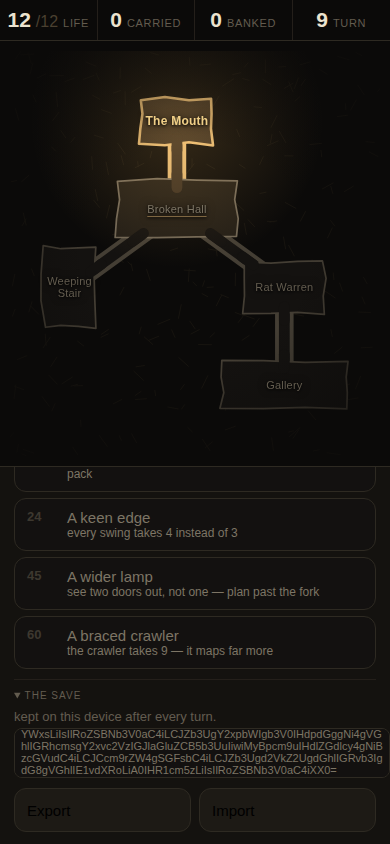
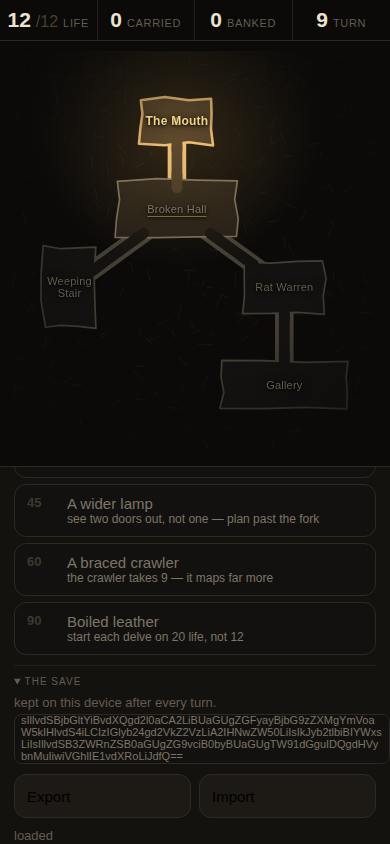
THE MAP IS TRUE: the game gets a ladder, and an end
⚠ THE BOTTOM OF THE DUNGEON WAS UNREACHABLE, and nothing had noticed for four
slices. The Hoard's guard is 48 hit points dealing ~4.5 a turn; on twelve life,
with every upgrade bought, standing and trading kills you in THREE of the
twelve swings you need. There was no route, no purchase and no play that got a
delver into the last room and out — the deepest chamber, the one the whole map
points at, could not be entered. A dungeon crawler whose deepest room is
impossible is not a finished game, and no test could see it because none of
them ever tried to go there.

★★★ SO THE ENDING IS "STOOD IN EVERY ROOM", NOT "KILLED EVERYTHING". The whole
game is a machine's map against a walked one, and finishing it is the moment
the walked one is complete: nothing left on your map that you took somebody
else's word for. That also turns the deep end into a DASH — get in, take the
hit, get out — which is a thing the kit can gate, instead of a wall nothing can
pass. `trod` is the one list in this game that is entirely, boringly true.

★ AND IT ONLY COUNTS IF YOU CAME BACK. Recording the room on ARRIVAL quietly
deleted the whole ladder: a bare delver could walk to the bottom, be killed by
the thing in it, and have finished the game. A map is only true if the surveyor
returned to draw it, so `trod` is written at the end of a turn you SURVIVED.

BOILED LEATHER (90) — start each delve on 20 life instead of 12. The second
[…]

Changed region(s): [[0.0308, 0.5545, 0.9846, 0.9242], [0.0308, 0.955, 0.1846, 1.0], [0.5538, 0.955, 0.6462, 0.9858]]

diff --git a/test/ladder.test.ts b/test/ladder.test.ts
@@ -1,0 +1,123 @@
+// ★★★ THE LADDER — is the game finishable, and is the kit what finishes it?
+//
+// ⚠ THE BOTTOM OF THE DUNGEON WAS UNREACHABLE, and nothing noticed for four
+// slices. The Hoard's guard is 48 hit points that deal ~4.5 a turn; on twelve
+// life, with every upgrade bought, standing and trading kills you in THREE
+// swings of the twelve you need. There was no route, no purchase and no play
+// that got a delver to the last room — the deepest chamber in the game, the
+// one the whole map points at, could not be entered and survived.
+//
+// ★ SO THE ENDING IS "STOOD IN EVERY ROOM", NOT "KILLED EVERYTHING". The game
+// is a machine's map against a walked one; finishing it is completing the
+// walked one. That makes the deep end a DASH — get in, take the hit, get out —
+// which is a thing the kit can gate, rather than a wall nothing can pass.
+//
+// Everything below plays real actions through `apply`. No hand-built states
+// where the claim is about whether a route works.
+import { describe, it, expect } from 'vitest';
+import { apply, initial, done, maxHp, facing, unwalkable, COST, VIM, START_HP,
+  type Delve, type Good } from '../src/delve/engine';
+import { ROOMS } from '../src/delve/dungeon';
+
+const go = (g: Delve, to: number): Delve => apply(g, { type: 'walk', to });
+const wedge = (g: Delve, to: number): Delve => apply(g, { type: 'wedge', to });
+
+/** Kitted out, standing at the Mouth, at the top of a delve. */
+const kitted = (...bought: Good[]): Delve => {
+  let g: Delve = { ...initial(), hoard: 9999 };
+  for (const w of bought) g = apply(g, { type: 'buy', what: w });
+  return { ...g, hp: maxHp(g) };
+};
+
+/** ★ THE ROUTE TO THE BOTTOM: 0-1-3-5-6-8-9, wedging the door shut behind you
+ *  at each lair so the pack you just woke cannot follow you down. This is the
+ *  intended use of a wedge and the reason it is the first thing on sale. */
+const dash = (g0: Delve, useWedges: boolean): Delve => {
+  let g = g0;
+  const legs: [number, number][] = [[0, 1], [1, 3], [3, 5], [5, 6], [6, 8], [8, 9]];
+  for (const [from, to] of legs) {
+    if (g.fallen) return g;
+    if (unwalkable(g, to) !== null) return g;
+    g = go(g, to);
+    // Cut the way you came, so what you woke has to go the long way round.
+    if (useWedges && g.kit.wedges > 0 && !g.fallen) g = wedge(g, from);
+  }
+  return g;
+};
+
+describe('★★★ THE BOTTOM OF THE DUNGEON CAN BE REACHED', () => {
+  it('★★★ but NOT bare-handed — you reach the door and it kills you there', () => {
+    const bare = dash(initial(), false);
+    expect(bare.fallen).toBe(true);
+    // ⚠ AND IT DOES NOT COUNT. Dying on the doorstep used to record the room,
+    // which quietly deleted this whole ladder: a bare delver could walk to the
+    // bottom, be killed by the thing in it, and have finished the game. A map
+    // is only true if the surveyor came back to draw it.
+    expect(bare.trod).not.toContain(9);
+    expect(done(bare)).toBe(false);
+  });
+
+  it('★★★ and not by standing and trading, however much you have bought', () => {
+    // ⚠ THE ARITHMETIC THAT FORCED THE ENDING TO BE ABOUT WALKING. 48 hit
+    // points of guard against a delver who loses ~4.5 a turn: there is no
+    // amount of `edge` that closes that, and pretending otherwise would have
+    // shipped a last room nobody could ever open.
+    let g = dash(kitted('wedges', 'edge', 'vim'), true);
+    if (g.at !== 9) return;                       // covered by the test below
+    let n = 0;
+    while (!g.fallen && facing(g).length > 0 && n < 40) { g = apply(g, { type: 'strike' }); n++; }
+    expect(g.fallen).toBe(true);
+  });
+
+  it('★★★ WITH THE KIT, THE DASH GETS THERE — and that is the whole ladder', () => {
+    const g = dash(kitted('wedges', 'edge', 'vim'), true);
+    expect(g.fallen).toBe(false);
+    expect(g.at).toBe(9);
+    expect(g.trod).toContain(9);
+  });
+
+  it('★★★ the leather is what makes the difference, not the route', () => {
+    // ⚠ THE CHECK THAT STOPS THIS BEING A STORY. Same route, same wedges, same
+    // edge — one purchase removed. If it still worked, the ladder would be
+    // decoration and the shop would not be gating anything.
+    const without = dash(kitted('wedges', 'edge'), true);
+    expect(maxHp(kitted('vim'))).toBe(START_HP + VIM);
+    expect(without.fallen || without.at !== 9).toBe(true);
+  });
+});
+
+describe('★★★ AND THE GAME CAN BE FINISHED', () => {
+  it('★ a fresh delver has not finished it', () => {
+    expect(done(initial())).toBe(false);
+    expect(initial().trod).toEqual([0]);
+  });
+
+  it('★★★ finishing is having STOOD in every room — walked, not cleared', () => {
+    // The one list in the game that is entirely, boringly true.
+    const walked: Delve = { ...initial(), trod: ROOMS.map((r) => r.id) };
+    expect(done(walked)).toBe(true);
+    // ⚠ AND NOT "cleared". You never have to beat the Hoard; you have to have
+    // been there. Clearing everything while never entering the last room is
+    // explicitly NOT finishing.
+    const slaughter: Delve = { ...initial(), cleared: ROOMS.map((r) => r.id),
+      trod: ROOMS.filter((r) => r.id !== 9).map((r) => r.id) };
+    expect(done(slaughter)).toBe(false);
+  });
+
+  it('★★★ and what you walked survives dying, or it could never be finished', () => {
+    // Every route to the bottom costs more life than a delver has; the ending
+    // is reachable ONLY because progress accumulates across runs.
+    const deep = dash(kitted('wedges', 'edge', 'vim'), true);
+    const down = apply({ ...deep, hp: 1 }, { type: 'wait' });
+    expect(down.fallen).toBe(true);
+    const next = apply(down, { type: 'leave' });
+    expect(next.trod).toContain(9);
+    expect(next.hp).toBe(maxHp(next));
+  });
+
+  it('★ and a run always starts on full life, with whatever you are wearing', () => {
+    const tough = kitted('vim');
+    expect(apply({ ...tough, at: 0, hp: 3 }, { type: 'leave' }).hp).toBe(START_HP + VIM);
+    expect(COST.vim).toBeGreaterThan(COST.brace);   // the last thing you buy
+  });
+});

diff --git a/src/delve/engine.ts b/src/delve/engine.ts
@@ -20,7 +20,7 @@
 // the graph against it. That is the Grimrock dance, made countable.
 import { ROOM, ROOMS, GUARDS, SPOIL } from './dungeon';
 
-export const DELVE_VERSION = 5;
+export const DELVE_VERSION = 6;
 
 /** A thing in the dungeon with you. It has a room, and it is coming. */
 export interface Foe {
@@ -63,11 +63,20 @@ export interface Delve {
   bars: Bar[];
   /** What the hoard has bought. Survives dying; that is the whole ratchet. */
   kit: Kit;
+  /** ★★★ EVERY ROOM YOU HAVE PERSONALLY STOOD IN. Not `seen` — seen is what
+   *  the lamp showed you from the doorway, and not `crawl.walked`, which is a
+   *  machine's word. This is the one list in the game that is entirely, boringly
+   *  true, and finishing the game means completing it. Survives dying. */
+  trod: number[];
   fallen: boolean;
   log: string[];
 }
 
 export const START_HP = 12;
+/** ★ HOW MUCH LIFE THE BOILED LEATHER IS WORTH. Tuned by playing the deep end
+ *  out in `test/ladder.test.ts`, not by feel: on 12 the bottom of the dungeon
+ *  is not reachable by ANY route, which made the game unfinishable. */
+export const VIM = 8;
 export const LOG_KEEP = 40;
 /** What one swing takes off. */
 export const BITE = 3;
@@ -89,7 +98,8 @@ export const initial = (): Delve => ({
   bred: 1,
   crawl: null,
   bars: [],
-  kit: { wedges: 0, lamp: 1, brace: 0, edge: 0 },
+  kit: { wedges: 0, lamp: 1, brace: 0, edge: 0, vim: 0 },
+  trod: [0],
   fallen: false,
   log: [],
 });
@@ -304,7 +314,14 @@ function theirTurn(g: Delve, said: string[], from: number): Delve {
       log: LOG_LINES(said.reduce(LOG_LINES, g.log),
         'You go down in the dark. What you carried stays there.') };
   }
-  return { ...g, turn, foes, cleared, purse, crawl, bred, bars, hp, at,
+  // ★★★ AND YOU HAVE STOOD HERE — recorded only on a turn you SURVIVED.
+  //
+  // ⚠ NOT WHEN YOU ARRIVE. Dying on the doorstep used to count, and that quietly
+  // deleted the difficulty ladder: a bare delver could walk to the bottom of the
+  // dungeon, be killed by the thing in it, and still have finished the game.
+  // A map is only true if the surveyor came back to draw it.
+  const trod = g.trod.includes(at) ? g.trod : [...g.trod, at];
+  return { ...g, turn, foes, cleared, purse, crawl, bred, bars, hp, at, trod,
     log: said.reduce(LOG_LINES, g.log) };
 }
 
@@ -569,9 +586,12 @@ export interface Kit {
   brace: number;
   /** 1 once the edge is keen. */
   edge: number;
+  /** ★ 1 once you are carrying more life. The second honest +1, and the one
+   *  that gates the deep end — see THE LADDER in `test/ladder.test.ts`. */
+  vim: number;
 }
 
-export type Good = 'wedges' | 'lamp' | 'brace' | 'edge';
+export type Good = 'wedges' | 'lamp' | 'brace' | 'edge' | 'vim';
 
 /** ★ How long a wedge holds. Four turns is two exchanges with a fast thing and
  *  four doors of running — long enough to be worth spending, short enough that
@@ -592,7 +612,7 @@ export const KEEN = 1;
  *  that is the loop taught in one delve instead of three. The lot comes to
  *  135, a bit under two total clears, which is a ratchet you can feel. */
 export const COST: Record<Good, number> = {
-  wedges: SPOIL.lair, edge: 24, lamp: 45, brace: 60,
+  wedges: SPOIL.lair, edge: 24, lamp: 45, brace: 60, vim: 90,
 };
 
 export const GOODS: Record<Good, string> = {
@@ -600,6 +620,7 @@ export const GOODS: Record<Good, string> = {
   edge: 'A keen edge',
   lamp: 'A wider lamp',
   brace: 'A braced crawler',
+  vim: 'Boiled leather',
 };
 
 export const SAYS: Record<Good, string> = {
@@ -607,7 +628,22 @@ export const SAYS: Record<Good, string> = {
   edge: `every swing takes ${BITE + KEEN} instead of ${BITE}`,
   lamp: 'see two doors out, not one — plan past the fork',
   brace: `the crawler takes ${CRAWL_HP + BRACE_HP} — it maps far more`,
+  vim: `start each delve on ${START_HP + VIM} life, not ${START_HP}`,
 };
+
+/** Life at the top of a delve, with what you are wearing. */
+export const maxHp = (g: Delve): number => START_HP + g.kit.vim * VIM;
+
+/** ★★★ HAVE YOU FINISHED? Every room in the dungeon, stood in, by YOU.
+ *
+ *  ⚠ NOT "every room cleared". You do not have to beat the Hoard — you have
+ *  to have BEEN there. The whole game is a machine's map against a walked one,
+ *  so the ending is the moment the walked one is complete: nothing left on your
+ *  map that you took somebody else's word for. It also means the deep end is a
+ *  dash rather than a wall — get in, take the hit, get out — which is a fight
+ *  the kit can actually gate rather than a fight nothing can win. */
+export const done = (g: Delve): boolean =>
+  ROOMS.every((r) => g.trod.includes(r.id));
 
 /** What one swing takes off, with what you are carrying. */
 export const swing = (g: Delve): number => BITE + g.kit.edge * KEEN;
@@ -663,6 +699,8 @@ export const descend = (g: Delve): Delve => ({
   hoard: g.hoard,
   kit: g.kit,
   crawl: g.crawl,
+  hp: START_HP + g.kit.vim * VIM,
+  trod: g.trod,
   // ★ THE MAP IS KNOWLEDGE, and knowledge does not fall down a hole with you.
   seen: g.seen,
   log: g.log,

diff --git a/src/ui/Delve.svelte b/src/ui/Delve.svelte
@@ -23,8 +23,8 @@
   import { ROOM, ROOMS } from '../delve/dungeon';
   import { apply, initial, doorsOf, unwalkable, unswingable, canLeave,
     facing, foesIn, actsOn, claimed, hallucinated, canSend, shut, waysOut,
-    unwedgeable, affordable, swing, COST, GOODS, SAYS, BAR_TURNS,
-    START_HP, CRAWL_HP, type Delve, type Good } from '../delve/engine';
+    unwedgeable, affordable, swing, COST, GOODS, SAYS, BAR_TURNS, done, maxHp,
+    CRAWL_HP, type Delve, type Good } from '../delve/engine';
 
   let game = $state<Delve>(initial());
   /** ⚠ NOTHING IS WRITTEN UNTIL THE LOAD HAS FINISHED. The first draft saved
@@ -138,7 +138,7 @@
   const invented = $derived(hallucinated(game));
   /** ★ THE FOUR THINGS THE HOARD BUYS. Order is price order, so the next thing
    *  you can afford is always the next thing down the list. */
-  const stock: Good[] = ['wedges', 'edge', 'lamp', 'brace'];
+  const stock: Good[] = ['wedges', 'edge', 'lamp', 'brace', 'vim'];
   /** Doors out of here you could still spend a wedge on. */
   const wedgeable = $derived(doorsOf(game.at).filter((d) => unwedgeable(game, d) === null));
   /** ★★★ THE MOMENT YOU LEARN TO DISTRUST IT. Kept OUT of the engine on
@@ -155,7 +155,7 @@
    *  is not getting one; drop every frame and the game plays identically. */
   let shock = $state(0);
   let float = $state<{ room: number; text: string; key: number } | null>(null);
-  let wasHp = START_HP;
+  let wasHp = 99;
   let wasPurse = 0;
   let key = 0;
   $effect(() => {
@@ -191,7 +191,7 @@
   <header>
     <div class="bar">
       <span class="cell">
-        {#key shock}<b class="kick">{game.hp}</b>{/key}/{START_HP} <em>life</em>
+        {#key shock}<b class="kick">{game.hp}</b>{/key}/{maxHp(game)} <em>life</em>
       </span>
       <span class="cell"><b>{game.purse}</b> <em>carried</em></span>
       <span class="cell"><b>{game.hoard}</b> <em>banked</em></span>
@@ -311,9 +311,29 @@
     <!-- ★★★ THE HOARD BUYS SOMETHING. Only at the Mouth, because that is the
          only place you are not being chased, and every line says what it does
          to the GRAPH rather than which number it raises. -->
+    <!-- ★★★ THE END. The whole game is a machine's map against a walked one,
+         so finishing it is the moment the walked one is complete: nothing left
+         on your map that you took somebody else's word for. -->
+    {#if done(game)}
+      <div class="won">
+        <h2>The map is true</h2>
+        <p class="note">
+          Ten rooms, stood in, by you. Nothing on it is anyone else's word any
+          more — and the crawler's inventions are gone with the rest.
+        </p>
+        <p class="note dim">
+          {game.turn} turns · {game.hoard} banked
+          {#if game.crawl} · {game.crawl.walked.length} rooms it walked{/if}
+        </p>
+        <p class="note dim">the dungeon is still down there. So is the Hoard.</p>
+      </div>
+    {/if}
     {#if game.at === 0 && !game.fallen}
       <div class="shop">
-        <p class="note dim shead">the hoard · <b>{game.hoard}</b></p>
+        <p class="note dim shead">
+          the hoard · <b>{game.hoard}</b>
+          <span class="split">{game.trod.length}/{ROOMS.length} rooms stood in</span>
+        </p>
         {#each stock as w (w)}
           <button class="deed buy" disabled={!affordable(game, w)}
             onclick={() => act({ type: 'buy', what: w })}>
@@ -375,6 +395,10 @@
     font-size: var(--t8); color: #4d6b78; }
   .wire .split { margin-left: auto; }
   .wire b { color: #a8c4d0; }
+  .won { margin: 8px 0; padding: 10px 12px; border: 1px solid var(--clay);
+    border-radius: var(--r2); background: #1a1109; }
+  .won h2 { margin: 0 0 4px; font-size: var(--t3); color: #f0cf87; }
+  .shead .split { float: right; color: var(--faint); }
   .shop { margin: 10px 0 4px; border-top: 1px solid var(--rule); padding-top: 6px; }
   .shead { text-transform: uppercase; letter-spacing: .1em; font-size: var(--t8); }
   .shead b { color: var(--ink); font-size: var(--t6); }
